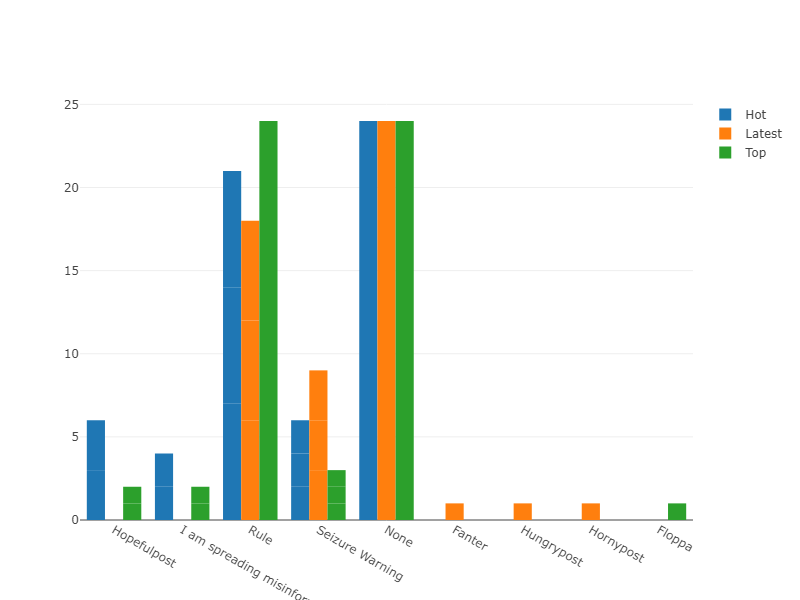
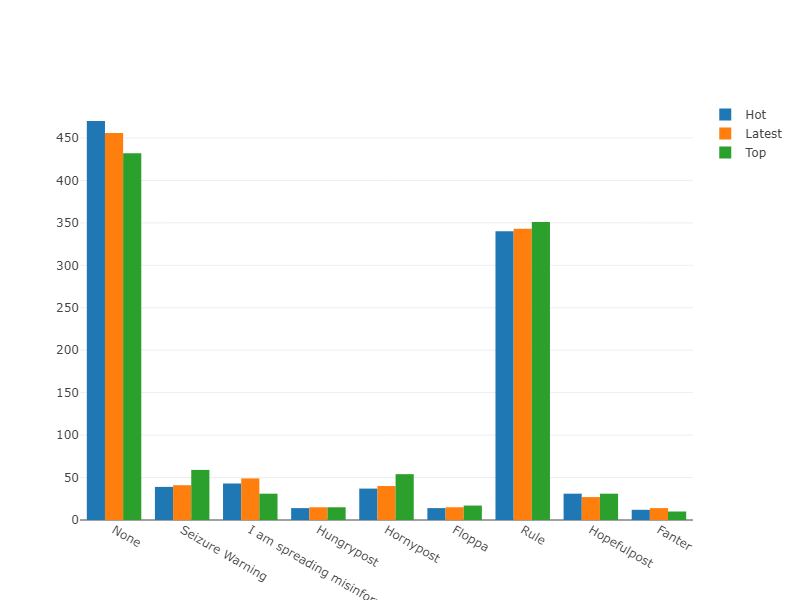
bug fixes

diff --git a/src/main.rs b/src/main.rs
@@ -3,9 +3,9 @@ extern crate dotenv_codegen;
 
 use plotly::{Bar, ImageFormat, Plot};
 use roux::{response::BasicThing, submission::SubmissionData, util::FeedOption, Reddit, Subreddit};
-use std::collections::{HashMap, HashSet};
+use std::collections::{HashMap, HashSet, VecDeque};
 
-type SubmissionsVec = Vec<BasicThing<SubmissionData>>;
+type SubmissionsVec = VecDeque<BasicThing<SubmissionData>>;
 
 #[derive(PartialEq)]
 enum PostType {
@@ -16,22 +16,20 @@ enum PostType {
 
 async fn collect_posts(subreddit: &Subreddit, count: u32, post_type: PostType) -> SubmissionsVec {
     // Collect 100 every minute
-    let mut posts: SubmissionsVec = Vec::new();
+    let mut posts: SubmissionsVec = VecDeque::new();
     let mut remaining = count;
     let mut after: Option<String> = None;
-    let mut existing_ids = HashSet::new();
+    let mut before: Option<String> = None;
 
     while remaining > 0 {
         let limit = std::cmp::min(100, remaining);
-        let mut options = FeedOption::new().limit(limit).count(posts.len() as u32);
-
-        if let Some(valid_after) = after {
-            options = options.after(valid_after.as_str());
-        }
-
-        if post_type == PostType::Top {
-            options = options.period(roux::util::TimePeriod::ThisMonth);
-        }
+        let options = FeedOption {
+            limit: Some(limit),
+            count: Some(posts.len() as u32),
+            after: after.clone(),
+            before: before.clone(),
+            period: Some(roux::util::TimePeriod::ThisMonth),
+        };
 
         let new_posts = match post_type {
             PostType::Hot => {
@@ -62,24 +60,29 @@ async fn collect_posts(subreddit: &Subreddit, count: u32, post_type: PostType) -
 
         remaining = remaining.saturating_sub(new_posts.len() as u32);
 
-        for post in new_posts {
-            let id = post.data.id.to_owned();
-            println!("Added post: {}", post.data.title);
-            if existing_ids.contains(&id) {
-                println!("duplicate id: {}", id);
-            } else {
-                existing_ids.insert(id);
-                posts.push(post);
+        let new_posts_len = new_posts.len();
+
+        // Hack I had to do because the API only holds 1000 posts, and the script breaks when new posts are made while it's running
+        if after.is_some() {
+            posts.extend(new_posts);
+        } else {
+            for post in new_posts {
+                posts.push_front(post);
             }
         }
 
-        let new_after: String = "t3_".to_owned() + &posts.last().unwrap().data.id.to_owned();
+        if before.is_some() || new_posts_len == 0 {
+            before = Some("t3_".to_owned() + &posts.front().unwrap().data.id.to_owned());
+            after = None;
+        }
 
-        after = Some(new_after);
-
-        println!("after: {:?}", after);
+        if before.is_none() {
+            let new_after: String = "t3_".to_owned() + &posts.back().unwrap().data.id.to_owned();
+            after = Some(new_after);
+        }
 
         println!("{} posts remaining\n", remaining);
+
         tokio::time::sleep(tokio::time::Duration::from_secs(60)).await;
     }
 
@@ -103,12 +106,8 @@ fn process_posts_flair(posts: &SubmissionsVec, include_flairless: bool) -> HashM
             .clone()
             .unwrap_or("None".to_string());
 
-        if let std::collections::hash_map::Entry::Vacant(e) = results.entry(flair.clone()) {
-            e.insert(1);
-        } else {
-            let count = results.get_mut(&flair).unwrap();
-            *count += 1;
-        }
+        let count = results.entry(flair).or_insert(0);
+        *count += 1;
     });
 
     results
@@ -181,10 +180,12 @@ async fn main() {
     let top = collect_posts(&subreddit, count, PostType::Top).await;
     let top_data_flair = process_posts_flair(&top, true);
 
-    let mut all_flairs: Vec<String> = Vec::new();
+    let mut all_flairs = HashSet::new();
     all_flairs.extend(hot_data_flair.keys().cloned());
     all_flairs.extend(latest_data_flair.keys().cloned());
     all_flairs.extend(top_data_flair.keys().cloned());
+
+    let all_flairs = all_flairs.iter().cloned().collect::<Vec<String>>();
 
     // Plot flair data
     let hot_data = collect_data(&all_flairs, hot_data_flair.clone());
